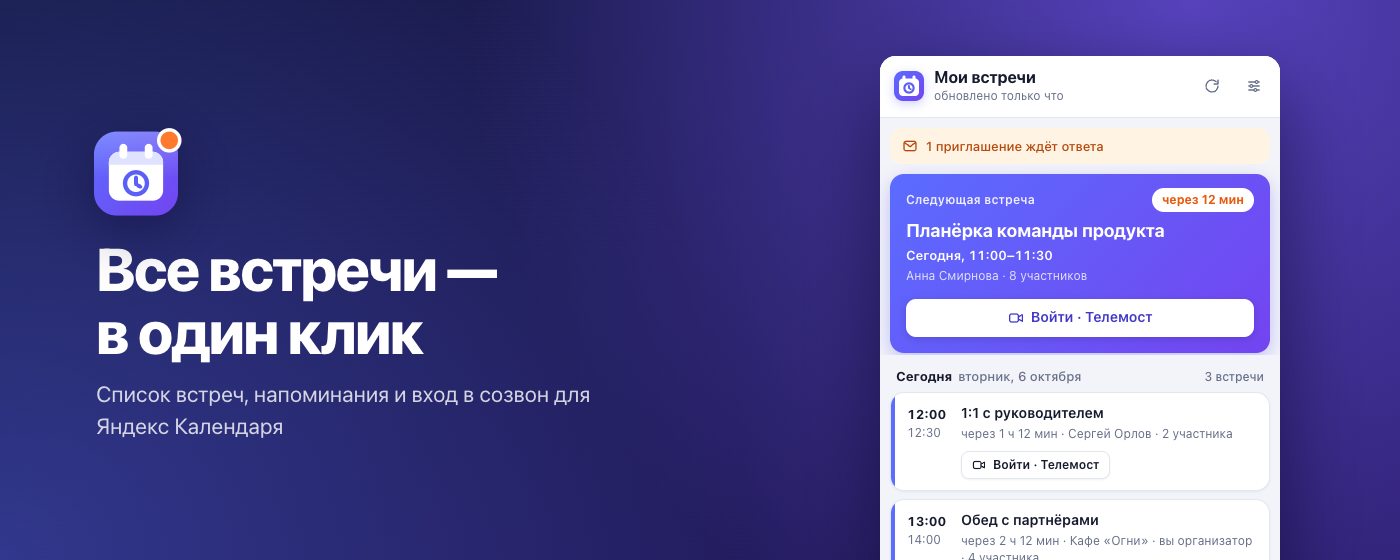
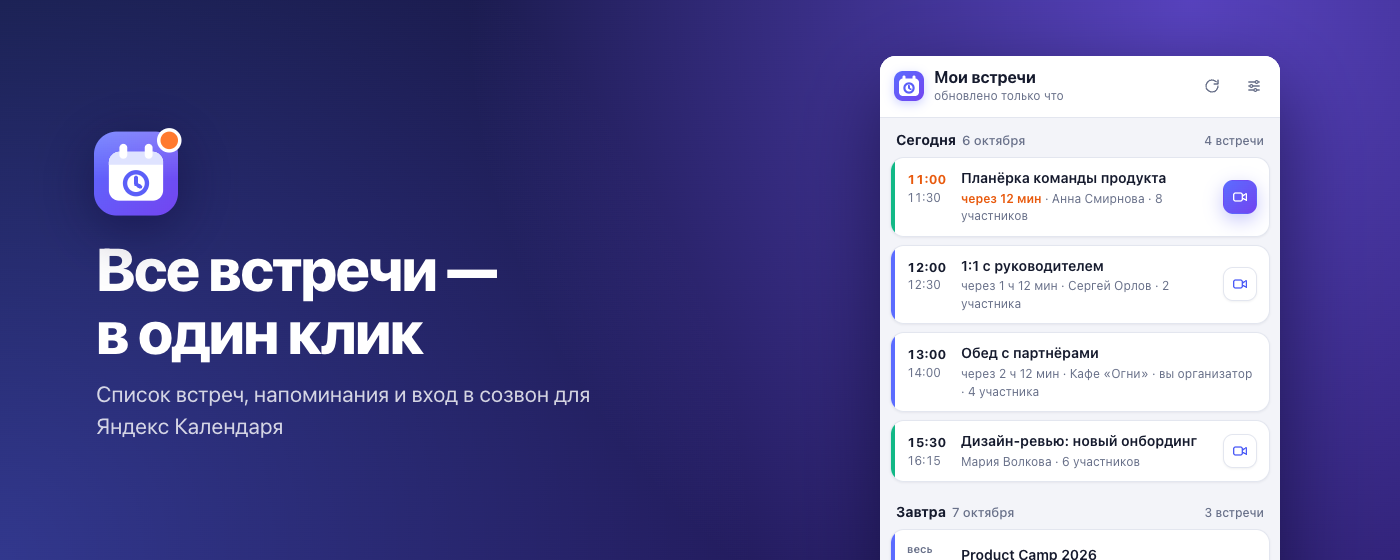
Картинки и текст магазина под новый список встреч

Changed region(s): [[0.6143, 0.2429, 0.9214, 0.8804], [0.6143, 0.9107, 0.8907, 1.0], [0.8293, 0.6679, 0.8907, 0.6982]]

diff --git a/store/listing.md b/store/listing.md
@@ -25,9 +25,9 @@
 Расширение показывает ваши ближайшие встречи из Яндекс Календаря прямо в браузере и вовремя напоминает о них. Работает и с корпоративными аккаунтами Яндекс 360.
 
 ВСЕ ВСТРЕЧИ В ОДИН КЛИК
-• Текущая или ближайшая встреча — крупно, с отсчётом до начала
-• Список на сегодня, завтра и на неделю вперёд
-• Кнопка «Войти» открывает видеозвонок по ссылке из встречи
+• Встречи по дням: сегодня, завтра и на неделю вперёд
+• Отсчёт до ближайшей встречи, идущая отмечена красным
+• Кнопка с камерой открывает видеозвонок по ссылке из встречи
 • Клик по встрече открывает её в календаре
 
 ОТСЧЁТ НА ИКОНКЕ

diff --git a/README.md b/README.md
@@ -26,7 +26,7 @@
     <td width="50%" valign="top">
       <img src="store/assets/screenshot-1-meetings.png" alt="Список встреч">
       <h3>Все встречи в один клик</h3>
-      Текущая или ближайшая встреча — крупно, с отсчётом до начала. Ниже — сегодня, завтра и неделя вперёд. Клик по встрече открывает её в Яндекс Календаре.
+      Встречи по дням: сегодня, завтра и неделя вперёд. До ближайшей — отсчёт, в созвон — одной кнопкой с камерой. Клик по встрече открывает её в Яндекс Календаре.
     </td>
     <td width="50%" valign="top">
       <img src="store/assets/screenshot-2-notifications.png" alt="Уведомления">
